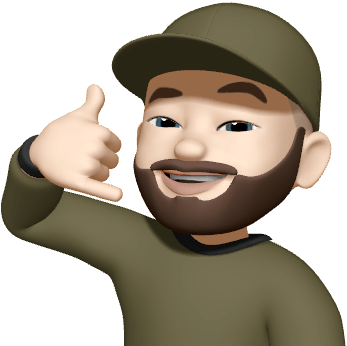
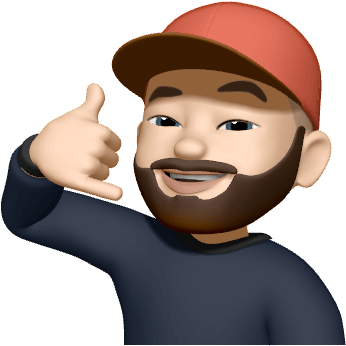
Update memoji outfit colors, tweak hero.

diff --git a/src/footer/footer.scss b/src/footer/footer.scss
@@ -1,5 +1,7 @@
 @import "../variables.scss";
 
+$horizontal_breakpoint: 470px;
+
 .footer {
   margin-top: 6rem;
   overflow: hidden;
@@ -13,6 +15,10 @@
     height: 8px;
     position: absolute;
     background: linear-gradient(to right, $primary, darken($primary, 30));
+
+    @media all and (min-width: $horizontal_breakpoint) {
+      background: linear-gradient(to left, $primary, darken($primary, 30));
+    }
   }
 
   .contact {
@@ -34,7 +40,7 @@
       height: 173px;
       z-index: -1;
 
-      @media all and (min-width: 470px) {
+      @media all and (min-width: $horizontal_breakpoint) {
         right: unset;
         left: -10px;
         transform: rotateY(180deg);
@@ -101,7 +107,7 @@
     }
   }
 
-  @media all and (min-width: 470px) {
+  @media all and (min-width: $horizontal_breakpoint) {
     .meta {
       justify-content: space-between;
       padding: 0.5rem $gutter 0;

diff --git a/src/hero/hero.scss b/src/hero/hero.scss
@@ -14,7 +14,7 @@
   }
 
   p {
-    max-width: 30rem;
+    // max-width: 30rem;
     margin-bottom: 0;
 
     @media all and (min-width: 724px) {
@@ -24,6 +24,30 @@
 
   figure {
     margin: 0;
+    position: relative;
+    transform: translateY(20px);
+    z-index: -1;
+
+    &:after {
+      content: "";
+      position: absolute;
+      bottom: 0;
+      left: 0;
+      right: 0;
+      height: 20px;
+      background: linear-gradient(to top, black, rgba(black, 0));
+    }
+  }
+
+  header,
+  main {
+    max-width: 30rem;
+    margin-left: auto;
+    margin-right: auto;
+  }
+
+  header {
+    padding-bottom: 20px;
   }
 
   @media all and (min-width: 724px) {
@@ -38,9 +62,6 @@
 
       figure {
         margin-right: 1rem;
-        display: flex;
-
-        align-items: flex-end;
       }
     }
   }

diff --git a/src/hero/Hero.tsx b/src/hero/Hero.tsx
@@ -1,16 +1,12 @@
 import "./hero.scss";
-import peeking from "./peeking.png";
+import waving from "./waving.png";
 
 export function Hero() {
   return (
     <section className="hero">
       <header>
         <figure>
-          <img
-            src={peeking}
-            alt="Cartoon of me peeking over a laptop"
-            width="100"
-          />
+          <img src={waving} alt="Cartoon of me waving" width="156" />
         </figure>
         <div>
           <h1>Josh Rutherford</h1>

diff --git a/src/self-taught/self-taught.scss b/src/self-taught/self-taught.scss
@@ -7,6 +7,7 @@ $dark: #353535;
   main {
     text-align: left;
 
+    h2,
     p {
       max-width: 30rem;
     }
@@ -20,6 +21,10 @@ $dark: #353535;
   @media all and (min-width: 724px) {
     display: flex;
     justify-content: center;
+
+    aside {
+      margin-top: 1rem;
+    }
 
     main {
       order: 2;
@@ -42,7 +47,7 @@ $dark: #353535;
     }
 
     img {
-      width: 100px;
+      width: 170px;
       position: absolute;
       display: block;
       bottom: 0;

diff --git a/src/stats/stats.scss b/src/stats/stats.scss
@@ -5,7 +5,7 @@
 
   main {
     text-align: left;
-    max-width: 30rem;
+    margin: 0 auto;
 
     h2,
     p {
@@ -19,7 +19,7 @@
     justify-content: center;
 
     main {
-      margin-right: 1rem;
+      margin: 0 1rem 0 0;
     }
   }
 

diff --git a/src/App.scss b/src/App.scss
@@ -56,7 +56,7 @@ p {
   font-weight: 300;
   line-height: 1.6875rem;
   color: rgba(255, 255, 255, 0.7);
-  margin: 2rem 0;
+  margin: 2rem auto;
 }
 
 section {
